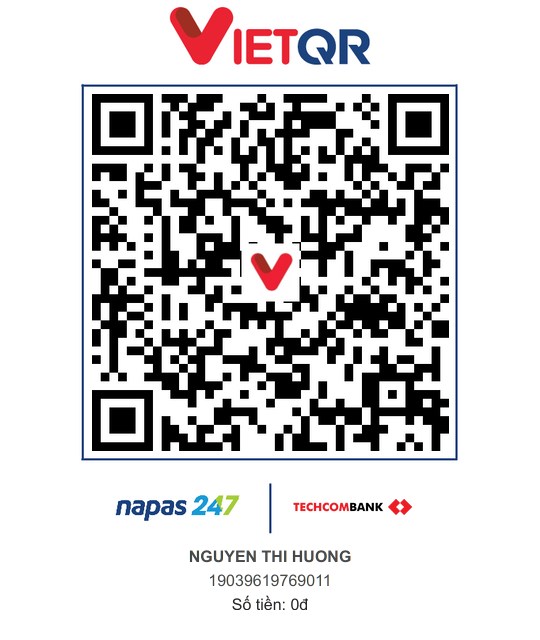
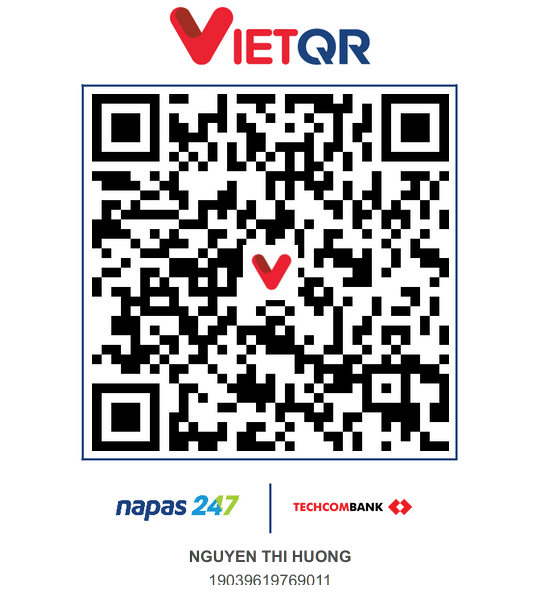
feat: implement robust QR download/share logic with iOS-specific fallbacks and update VietQR image variant

Changed region(s): [[0.1481, 0.0298, 0.8593, 0.9818], [0.3259, 0.0, 0.3852, 0.0893], [0.3852, 0.0595, 0.4148, 0.0893]]

diff --git a/src/components/wedding/GiftSection.tsx b/src/components/wedding/GiftSection.tsx
@@ -27,7 +27,23 @@ export const GiftSection: React.FC<GiftSectionProps> = ({ gift, stageKey = "sg" 
   });
 
   const handleCopy = (accountNumber: string, index: number) => {
-    navigator.clipboard.writeText(accountNumber);
+    if (navigator.clipboard && navigator.clipboard.writeText) {
+      navigator.clipboard.writeText(accountNumber).catch(() => {
+        const textArea = document.createElement("textarea");
+        textArea.value = accountNumber;
+        document.body.appendChild(textArea);
+        textArea.select();
+        document.execCommand("copy");
+        document.body.removeChild(textArea);
+      });
+    } else {
+      const textArea = document.createElement("textarea");
+      textArea.value = accountNumber;
+      document.body.appendChild(textArea);
+      textArea.select();
+      document.execCommand("copy");
+      document.body.removeChild(textArea);
+    }
     setCopiedIndex(index);
     setTimeout(() => {
       setCopiedIndex(null);
@@ -41,6 +57,33 @@ export const GiftSection: React.FC<GiftSectionProps> = ({ gift, stageKey = "sg" 
     try {
       const response = await fetch(qrUrl);
       const blob = await response.blob();
+
+      // 1. Web Share API with File (Optimized for iPhone / iOS Safari — opens Native Share Sheet with "Lưu hình ảnh" / Save Image)
+      if (
+        typeof navigator !== "undefined" &&
+        navigator.canShare &&
+        typeof File !== "undefined"
+      ) {
+        try {
+          const file = new File([blob], fileName, { type: blob.type || "image/png" });
+          if (navigator.canShare({ files: [file] })) {
+            await navigator.share({
+              files: [file],
+              title: "Mã QR Mừng Cưới",
+              text: "Mã QR Mừng Cưới Tú Văn & Hường Nguyễn",
+            });
+            return;
+          }
+        } catch (shareErr) {
+          // If the user dismissed or cancelled the share sheet, return gracefully
+          if (shareErr instanceof Error && shareErr.name === "AbortError") {
+            return;
+          }
+          console.log("Web Share API fallback:", shareErr);
+        }
+      }
+
+      // 2. Standard Blob Link Download (Desktop & Android)
       const blobUrl = window.URL.createObjectURL(blob);
       const link = document.createElement("a");
       link.href = blobUrl;
@@ -48,9 +91,23 @@ export const GiftSection: React.FC<GiftSectionProps> = ({ gift, stageKey = "sg" 
       document.body.appendChild(link);
       link.click();
       document.body.removeChild(link);
-      window.URL.revokeObjectURL(blobUrl);
-    } catch {
-      // Fallback direct download
+
+      // 3. Fallback for iOS Safari when <a> download is ignored by WebKit
+      const isIOS =
+        typeof window !== "undefined" &&
+        (/iPad|iPhone|iPod/.test(navigator.userAgent) ||
+          (navigator.platform === "MacIntel" && navigator.maxTouchPoints > 1));
+
+      if (isIOS) {
+        window.open(blobUrl, "_blank");
+      }
+
+      setTimeout(() => {
+        window.URL.revokeObjectURL(blobUrl);
+      }, 3000);
+    } catch (err) {
+      console.error("QR Download fallback:", err);
+      // Fallback direct link
       const link = document.createElement("a");
       link.href = qrUrl;
       link.download = fileName;
@@ -59,7 +116,7 @@ export const GiftSection: React.FC<GiftSectionProps> = ({ gift, stageKey = "sg" 
     } finally {
       setTimeout(() => {
         setDownloadingIndex(null);
-      }, 1500);
+      }, 1000);
     }
   };
 
@@ -220,7 +277,7 @@ export const GiftSection: React.FC<GiftSectionProps> = ({ gift, stageKey = "sg" 
             </div>
 
             {/* Download Button in Modal */}
-            <div className="pt-2">
+            <div className="pt-2 space-y-2">
               <button
                 type="button"
                 onClick={() =>
@@ -231,11 +288,14 @@ export const GiftSection: React.FC<GiftSectionProps> = ({ gift, stageKey = "sg" 
                       : "QR-Mung-Cuoi-Co-Dau-Huong-Nguyen.png"
                   )
                 }
-                className="w-full inline-flex items-center justify-center gap-2 py-2.5 px-4 rounded-full bg-[#8C1425] hover:bg-[#700F1D] text-white font-sans text-xs font-semibold tracking-wider uppercase transition-all shadow-md active:scale-95 cursor-pointer"
+                className="w-full inline-flex items-center justify-center gap-2 py-3 px-4 rounded-full bg-[#8C1425] hover:bg-[#700F1D] text-white font-sans text-xs font-semibold tracking-wider uppercase transition-all shadow-md active:scale-95 cursor-pointer"
               >
                 <Download className="w-4 h-4" />
-                <span>Tải Mã QR Về Máy</span>
+                <span>Lưu / Tải Mã QR Về Máy</span>
               </button>
+              <p className="text-[11px] text-textMuted font-sans leading-relaxed">
+                💡 Trên iPhone: Bạn cũng có thể <b>chạm &amp; giữ ảnh 1 giây</b> để chọn &ldquo;Lưu vào Ảnh&rdquo; (Save to Photos).
+              </p>
             </div>
           </div>
         </div>

diff --git a/.brain/handover.md b/.brain/handover.md
@@ -7,8 +7,12 @@
 
 ## 📍 Đang làm & Trạng thái:
 - **Tính năng & Fix hoàn thành mới nhất:**
-  1. **Ẩn nút "Lưu Vào Lịch" (`EventCard.tsx`):** Loại bỏ nút tải lịch, tối ưu nút "Chỉ Đường (Google Maps)" thành nút hành động duy nhất full-width gọn gàng và dễ thao tác trên mobile.
-  2. **Cập nhật nhãn nút menu (`BottomNavigation.tsx`):** Đổi nhãn `RSVP` thành **`Xác Nhận`** đồng bộ thuần Việt với toàn bộ website.
+  1. **Chuẩn hóa mã VietQR (`print.png`) & Tải mã trên iPhone (`GiftSection.tsx`, `update-qr.mjs`):**
+     - **Hiển thị đầy đủ thông tin trên ảnh QR:** Tên người nhận, Số tài khoản, Ngân hàng, Nội dung chuyển khoản (*Mung cuoi Tu Van* / *Mung cuoi Huong Nguyen*).
+     - **Không set số tiền 0đ:** Bỏ hoàn toàn dòng số tiền 0đ để khách quét mã tự nhập số tiền mừng.
+     - **Tải ảnh trên iPhone:** Tích hợp **Web Share API với File** mở menu chia sẻ iOS để chọn **"Lưu hình ảnh"** vào album Photos.
+  2. **Ẩn nút "Lưu Vào Lịch" (`EventCard.tsx`):** Loại bỏ nút tải lịch, tối ưu nút "Chỉ Đường (Google Maps)" thành nút hành động duy nhất full-width gọn gàng và dễ thao tác trên mobile.
+  3. **Cập nhật nhãn nút menu (`BottomNavigation.tsx`):** Đổi nhãn `RSVP` thành **`Xác Nhận`** đồng bộ thuần Việt với toàn bộ website.
   3. **Ẩn ô nhập lời chúc trong Form Xác nhận tham dự (`RSVPSection.tsx`):**
      - Loại bỏ textarea lời chúc khỏi form RSVP giúp form tinh gọn, nhanh chóng cho khách xác nhận.
      - Khách mời có thể gửi lời chúc qua phần riêng biệt **Sổ Lưu Bút** (`WishesSection.tsx`).

diff --git a/CHANGELOG.md b/CHANGELOG.md
@@ -6,6 +6,16 @@ Toàn bộ lịch sử các tính năng, nâng cấp giao diện và tối ưu h
 
 ## [v1.2.1] - 2026-09-08
 
+### 📱 Tối Ưu Tải Mã QR Trên iPhone & Chuẩn Hóa Thông Tin Mã QR (Enhanced)
+- **Hỗ trợ tải mã QR trên iOS/iPhone (`GiftSection.tsx`):**
+  - Tích hợp chuẩn **Web Share API với File** (`navigator.share({ files })`) để kích hoạt trực tiếp bảng chia sẻ gốc của iOS với tùy chọn **"Lưu hình ảnh" (Save Image to Photos)** một chạm.
+  - Dự phòng mở ảnh trong tab/modal mới trên iOS Safari khi thẻ `<a download>` bị WebKit chặn.
+  - Bổ sung hướng dẫn *"Chạm & giữ ảnh 1 giây để Lưu vào Ảnh"* trực quan trong popup phóng to.
+- **Chuẩn hóa thông tin hiển thị trên mã QR (Không có số tiền 0đ):**
+  - Áp dụng chuẩn **VietQR Print** (`print.png`): Hiển thị đầy đủ **Tên chủ TK, Số TK, Tên Ngân hàng và Nội dung CK** (Mung cuoi Tu Van / Mung cuoi Huong Nguyen).
+  - **Không input số tiền:** Loại bỏ hoàn toàn trường `Số tiền: 0đ` để khách mời tự do nhập số tiền mừng tùy ý khi quét mã.
+  - Đồng bộ script `scripts/update-qr.mjs` sang template `print.png`.
+
 ### 🗓 Tối Ưu Thẻ Sự Kiện (EventCard) (Updated)
 - **Ẩn nút "Lưu Vào Lịch":** Loại bỏ nút tải file `.ics` lịch cưới trong thẻ sự kiện ([EventCard.tsx](file:///Users/tuvan/Documents/wedding-site/src/components/wedding/EventCard.tsx)), chuyển nút **"Chỉ Đường (Google Maps)"** thành nút bấm chính full-width trực quan, dễ thao tác.
 
